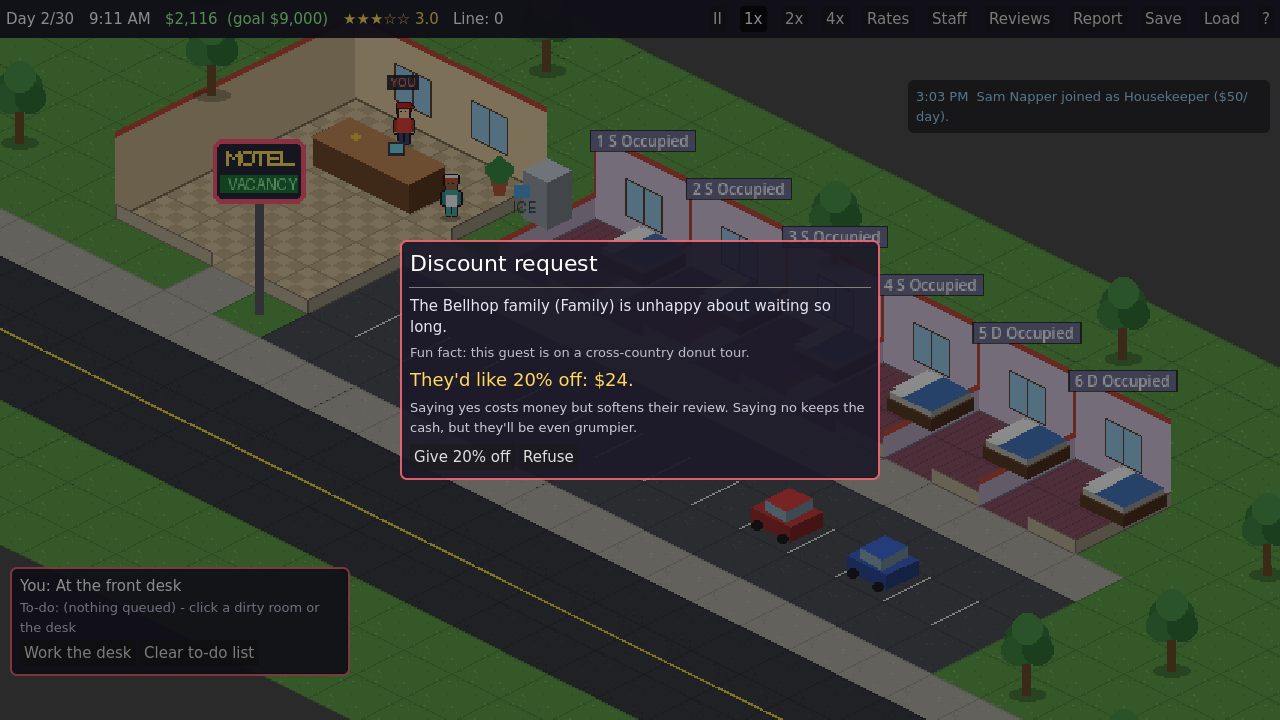
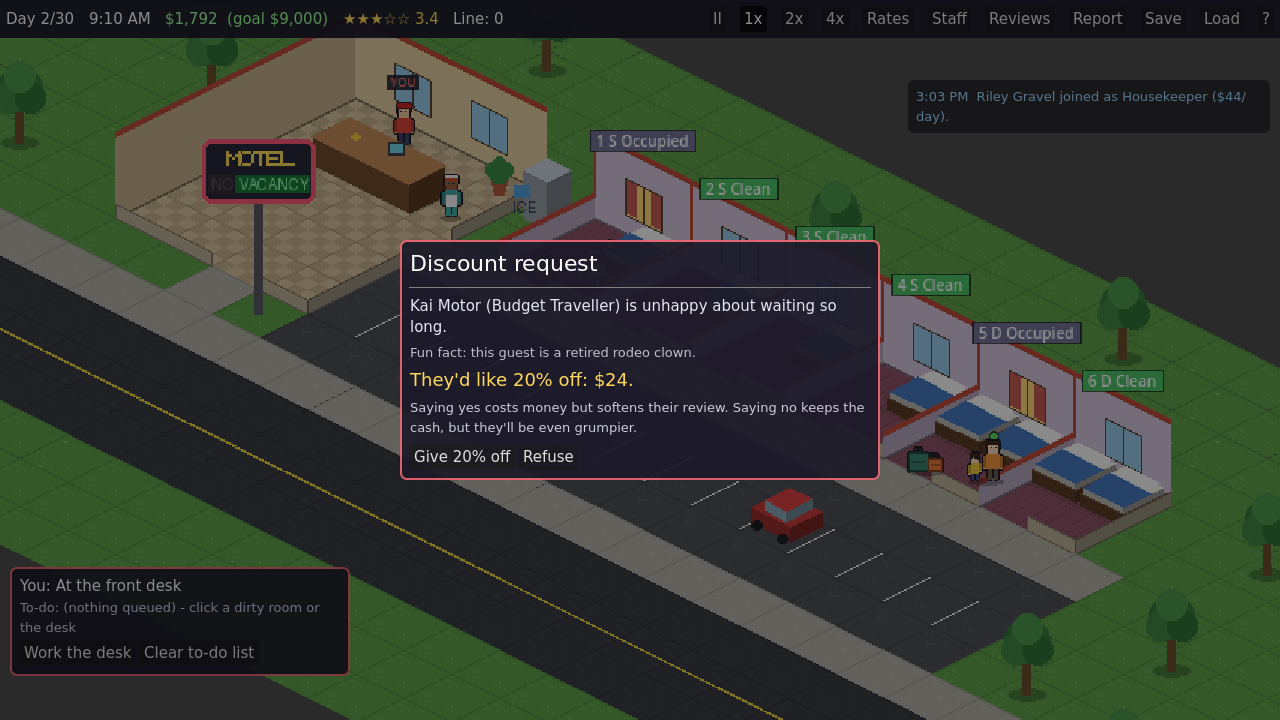
Turn the beds so the pillows sit against the window wall
Claude-Session: https://claude.ai/code/session_01CzRZpXmuQp1iCPN6nrXxka

diff --git a/tools/gen_art.py b/tools/gen_art.py
@@ -197,23 +197,24 @@ def bed(name, blanket, messy, sleeper=None):
     box(dr, ox, oy, 0.05, 0.05, 0.9, 0.9, 8, (120, 80, 50, 255))           # frame
     box(dr, ox, oy, 0.08, 0.08, 0.84, 0.84, 4, (245, 245, 240, 255), lift=8)  # mattress
     if messy:
-        diamond(dr, ox, oy, 0.25, 0.1, 0.6, 0.8, shade(blanket, 0.9), lift=12)
-        diamond(dr, ox, oy, 0.5, 0.15, 0.35, 0.5, shade(blanket, 0.7), lift=13)
-        p = iso(0.2, 0.6, ox, oy - 12)
+        diamond(dr, ox, oy, 0.1, 0.25, 0.8, 0.6, shade(blanket, 0.9), lift=12)
+        diamond(dr, ox, oy, 0.15, 0.5, 0.5, 0.35, shade(blanket, 0.7), lift=13)
+        p = iso(0.6, 0.2, ox, oy - 12)
         dr.ellipse([p[0] - 6, p[1] - 3, p[0] + 4, p[1] + 2], fill=(240, 240, 235, 255))
         # clothes on the floor
         for (gx, gy, col) in [(0.9, 0.95, (70, 110, 200, 255)), (0.1, 1.0, (220, 90, 70, 255))]:
             p = iso(gx, gy, ox, oy)
             dr.rectangle([p[0] - 4, p[1] - 2, p[0] + 3, p[1] + 1], fill=col)
     else:
-        diamond(dr, ox, oy, 0.35, 0.08, 0.57, 0.84, blanket, lift=12)
-        diamond(dr, ox, oy, 0.08, 0.15, 0.25, 0.7, (250, 250, 250, 255), lift=13)
+        # head of the bed against the back (window) wall, foot toward the door side
+        diamond(dr, ox, oy, 0.08, 0.35, 0.84, 0.57, blanket, lift=12)
+        diamond(dr, ox, oy, 0.15, 0.08, 0.7, 0.25, (250, 250, 250, 255), lift=13)
     if sleeper:
         skin, hair = sleeper
         # a body-shaped lump under the blanket, and a head on the pillow
-        diamond(dr, ox, oy, 0.4, 0.3, 0.5, 0.4, shade(blanket, 1.15), lift=15)
-        diamond(dr, ox, oy, 0.45, 0.35, 0.35, 0.3, shade(blanket, 1.3), lift=17)
-        p = iso(0.22, 0.5, ox, oy - 15)
+        diamond(dr, ox, oy, 0.3, 0.4, 0.4, 0.5, shade(blanket, 1.15), lift=15)
+        diamond(dr, ox, oy, 0.35, 0.45, 0.3, 0.35, shade(blanket, 1.3), lift=17)
+        p = iso(0.5, 0.22, ox, oy - 15)
         dr.ellipse([p[0] - 5, p[1] - 4, p[0] + 5, p[1] + 3], fill=skin + (255,))
         dr.ellipse([p[0] - 6, p[1] - 5, p[0] + 1, p[1] + 2], fill=hair + (255,))
     save(img, name)
